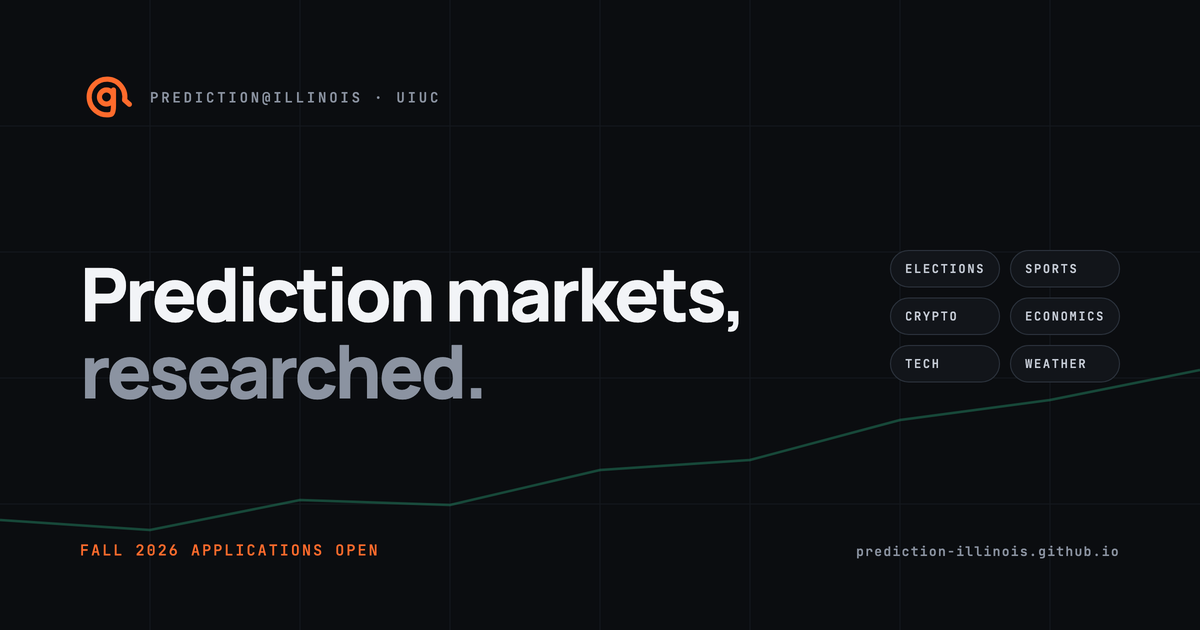
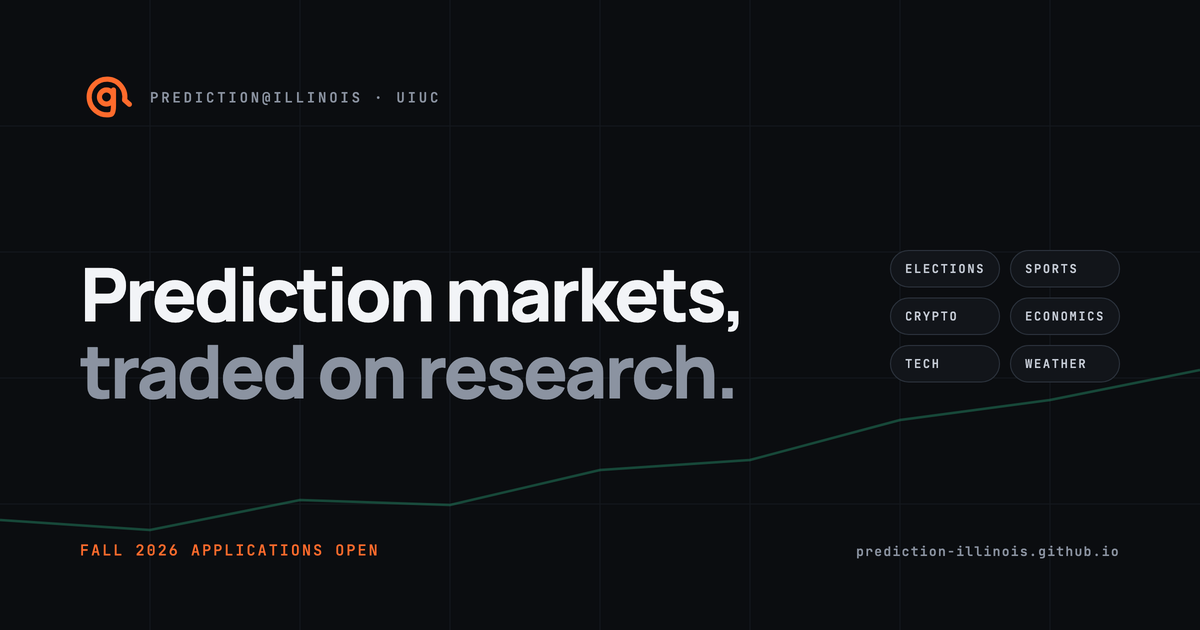
Hero: 'Prediction markets, traded on research.'; OG image and site description to match

Changed region(s): [[0.0617, 0.5429, 0.6167, 0.6333]]

diff --git a/index.html b/index.html
@@ -5,7 +5,7 @@ description: Prediction@Illinois is a quantitative trading research group at the
 <section class="wrap hero" id="hero">
   <div>
     <span class="eyebrow brand">University of Illinois Urbana–Champaign</span>
-    <h1>Prediction markets,<br><span class="dim">researched.</span></h1>
+    <h1>Prediction markets,<br><span class="dim">traded on research.</span></h1>
     <p class="lede">Prediction@Illinois is a quantitative trading research group at UIUC. We price event contracts, study prediction-market microstructure, and build systematic strategies on live Polymarket and Kalshi data.</p>
     <div class="cta-row">
       <a class="btn btn-1 btn-lg" href="/apply/">Apply for Fall 2026</a>
